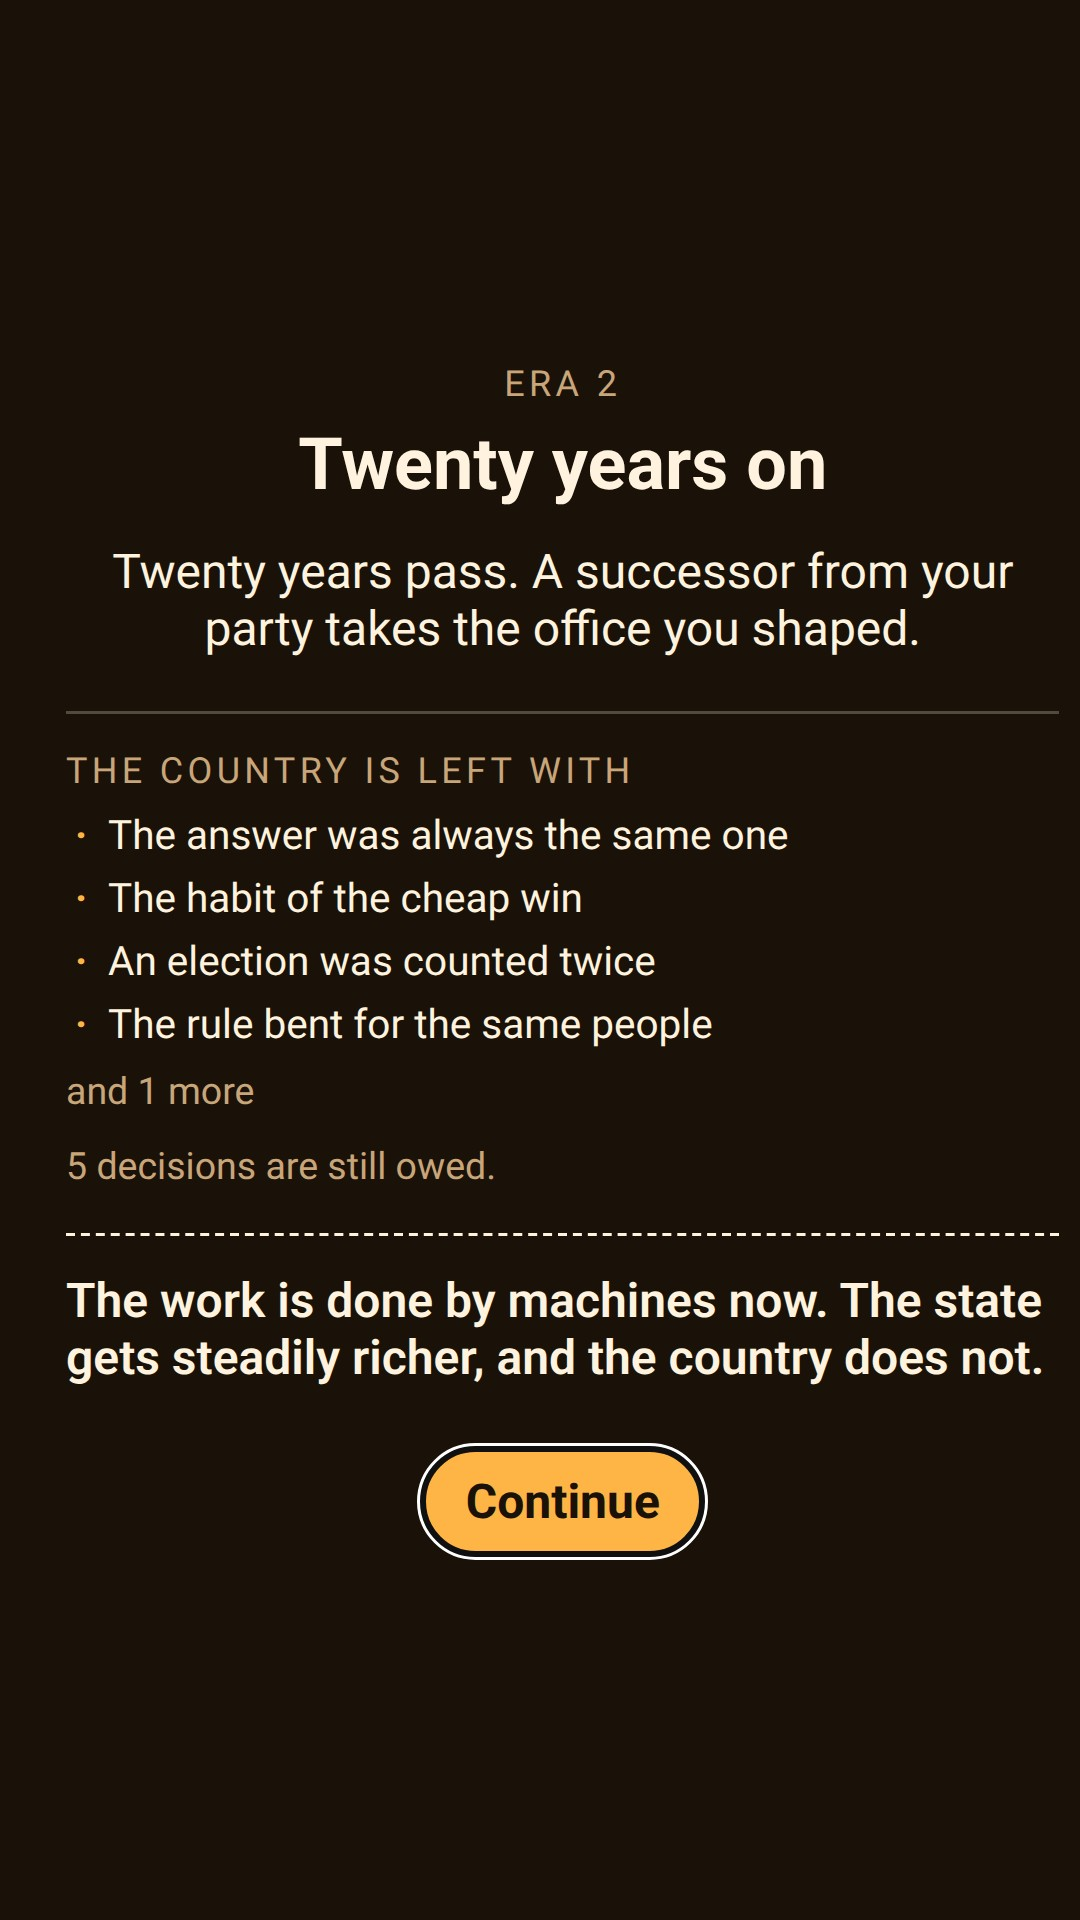
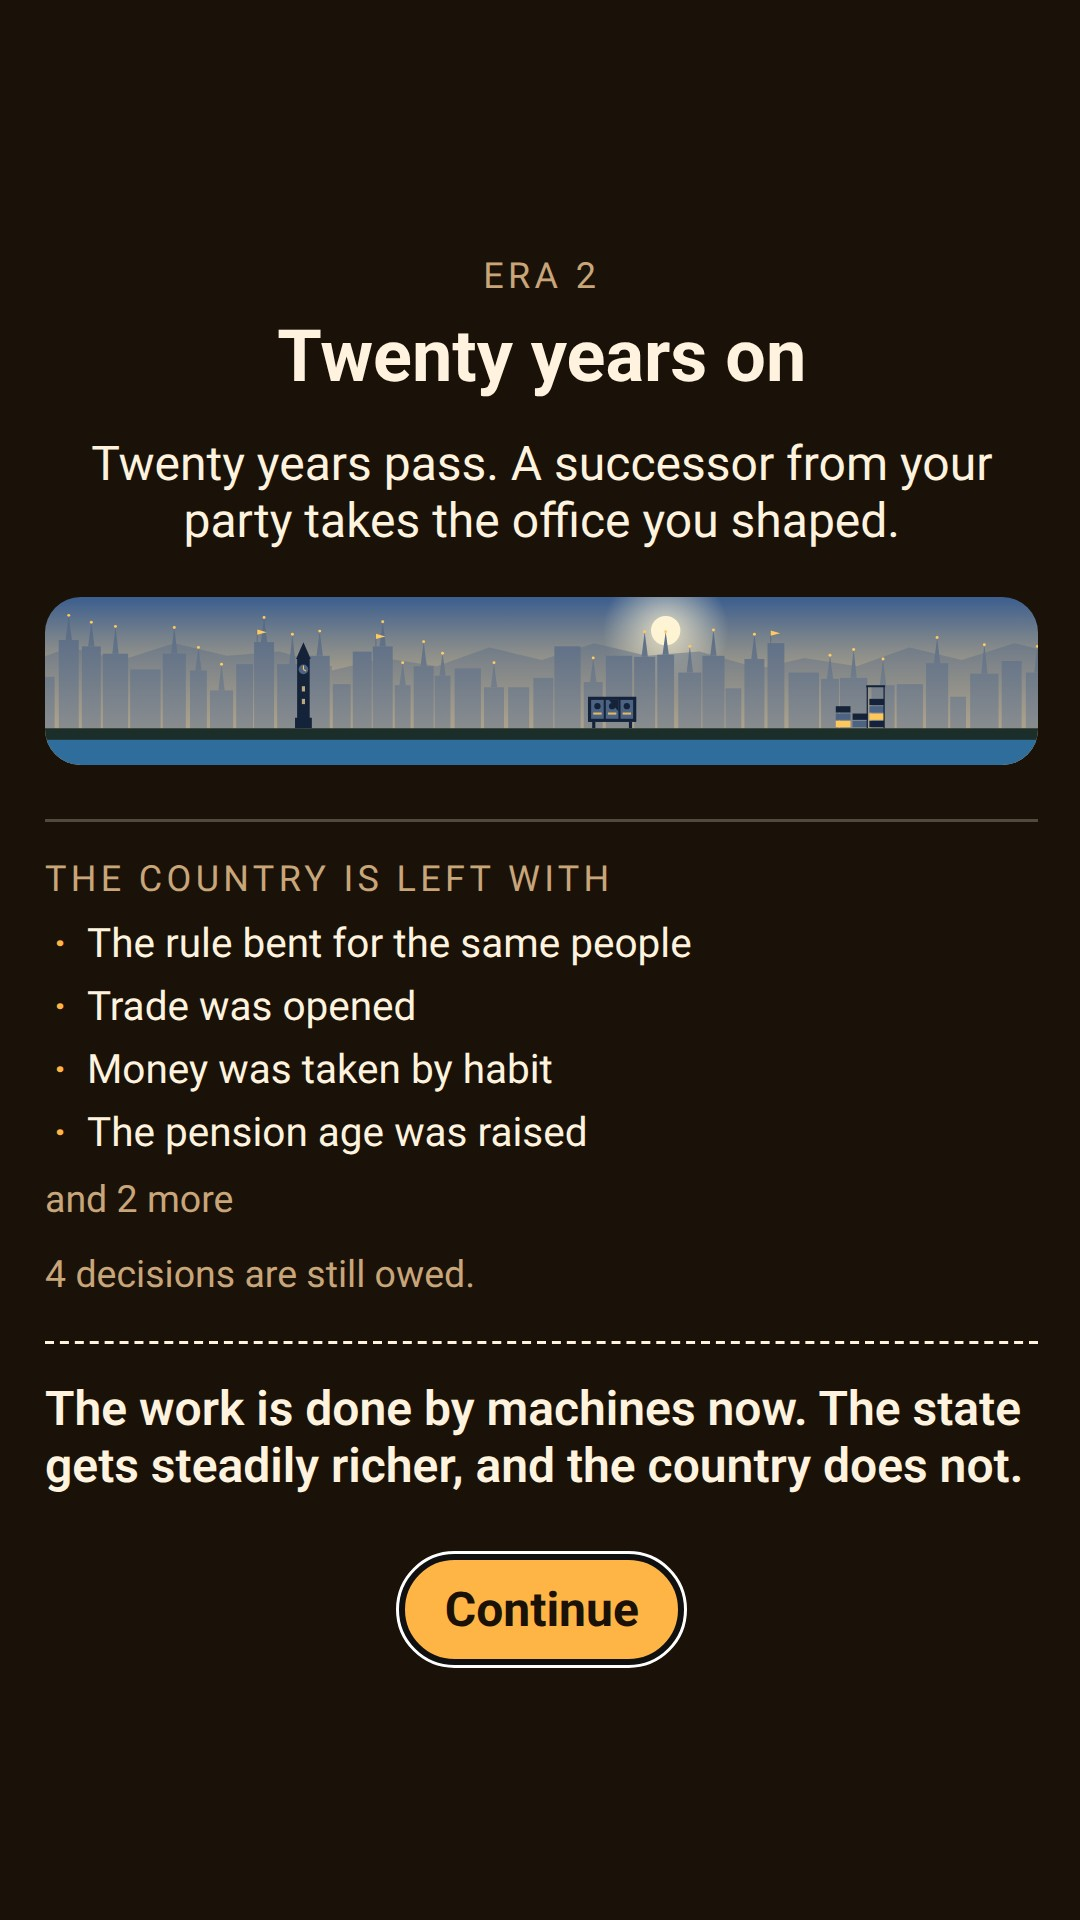
Store screenshots from v0.73.0, the rating search caught up, ROADMAP current
- The eight store screenshots are made again from v0.73.0. They were stale
  since v0.72.0: the era's change (04) draws the country now, and the menu
  (08) offers taking over the last run's country. STORE.md says which
  version they were made from.
- The listing said 80 ways for a rule to end; a run can collect 77. The
  other three close a first term, and the codex leaves them out.
- The content-rating notes were searched over the 1,577 cards of v0.59.0.
  Every line written or reworded since (967, from 233 new cards and the
  endings, histories, clues, promises and screen text added with them) is
  now searched too. Nothing new for the questionnaire's themes beyond a few
  mild additions, noted under each; a note on discrimination is added in
  case it is asked about.
- ROADMAP.md stopped at phase 7, and its list of what was left named things
  done since. It now opens with where the project stands, an index of the
  ten rounds of BACKLOG files, and what is left: a human playtest, and
  getting onto Play. The phase 7 section is kept, dated.

Claude-Session: https://claude.ai/code/session_018ViqGE1X6N6yJ5eQs81iMo

Changed region(s): [[0.0306, 0.125, 0.9778, 0.875]]

diff --git a/twa/STORE.md b/twa/STORE.md
@@ -12,8 +12,9 @@ that follow from it.
 | Short description | Swipe to govern. The easy choice now is the ruinous choice later. | 65 / 80 |
 
 **Full description** (2,613 / 4,000 characters). Every number in it was checked
-against the content when written: 1,810 cards, 44 stories and 16 questions, 30 advisors, 80
-endings, 675 history names (re-checked in v0.73.0). Re-check them if the content changes.
+against the content when written: 1,810 cards, 44 stories and 16 questions, 30 advisors, 77
+endings a run can collect (80 with the three that close a first term, which the codex leaves
+out), 675 history names (re-checked in v0.73.0). Re-check them if the content changes.
 
 ```
 You have taken office. Your advisors bring you one decision at a time: swipe left or right, and try to keep the country, your coalition and yourself in one piece for three eras.
@@ -28,7 +29,7 @@ HOW IT PLAYS
 • Elections you can win honestly, or not, and a record of which. A rival grows on every vote you steal, and once they are somebody they come for your cabinet, and then for the office by name.
 
 EVERY RUN IS ITS OWN
-• 80 ways for a rule to end, many of them yours to choose, and 675 names history can give it, from what you did and where it took the country.
+• 77 ways for a rule to end, many of them yours to choose, and 675 names history can give it, from what you did and where it took the country.
 • The country stands under the card as you build it: the seawall going up, the warships leaving. At the end, a picture of the world you left: spires and a ring in the sky, or tanks in the square and a drained bay.
 • Two parties to lead, the Commons and the Ledger, each with a coalition of its own.
 • Promises you make at the start, one or two of nine, each at a price, and each kept or broken on its own.
@@ -50,7 +51,8 @@ game, strategy, choices matter.
 ## Graphics
 
 `npm run build && npm run store:assets` makes all of these from the built game into
-`twa/store/`, in about ten seconds. Run it again whenever the screens change.
+`twa/store/`, in about ten seconds. Run it again whenever the screens change. The ones here
+were made from v0.73.0.
 
 | File | Size | What it shows |
 |---|---|---|
@@ -59,11 +61,11 @@ game, strategy, choices matter.
 | `01-card.jpg` | 1080×1920, JPEG | A card, in the neutral look |
 | `02-decay.jpg` | 1080×1920 | The same card in deep Decay: the screen has become a livestream |
 | `03-ascent.jpg` | 1080×1920 | The Ledger in deep Ascent |
-| `04-twenty-years-on.jpg` | 1080×1920 | An era boundary: what the country was left with, and what is still owed |
+| `04-twenty-years-on.jpg` | 1080×1920 | An era boundary: the country the reign hands on, what it was left with, and what is still owed |
 | `05-end-ascent.jpg` | 1080×1920 | The end of a run that went up: the world left behind, and its name |
 | `06-end-decay.jpg` | 1080×1920 | The end of a run that went down |
 | `07-codex.jpg` | 1080×1920 | The codex of a profile thirty runs in |
-| `08-menu.jpg` | 1080×1920 | The start of a run: a side, a setup, a promise |
+| `08-menu.jpg` | 1080×1920 | The start of a run: a side, a setup, and a fresh start or the last run's country |
 
 The screenshots are a 360×640 phone at three device pixels per CSS pixel, in Roboto, the
 font Android draws the game in. It is the copy the browser audits measure in
@@ -125,8 +127,10 @@ a run ends (`navigator.storage.persist()`), which sends nothing anywhere.
 
 ## Content rating questionnaire (IARC)
 
-These are notes to answer from, not answers. The 1,577 cards were searched for each theme the
-questionnaire asks about:
+These are notes to answer from, not answers. Everything the game can show was searched for each
+theme the questionnaire asks about: the 1,577 cards of v0.59.0 first, then, in v0.73.0, the 967
+lines written or reworded since. Those are 233 new cards, and the endings, histories, codex clues,
+promises and screen text added with them.
 
 - **Violence:** reported, not shown. Deaths are told in text ("forty thousand people
   died"), and there are riots, a coup, purges and a general "unleashed". Later cards add water
@@ -147,9 +151,13 @@ questionnaire asks about:
   die, an earthquake that flattens three schools, a foreign agent in the leader's office, a
   flood the valley is moved out of, and an army paid in bread that takes the bakeries, told
   the same way. The pictures are flat silhouettes (tanks, a searchlight), with no blood and no
-  injury.
-- **Language:** no profanity found.
-- **Sexual content:** none found.
+  injury. What was written since v0.59.0 adds almost none: police at a rally the organisers
+  expect to be "lively", a promise to jail a rival's ministers, soldiers sent into the streets
+  who do not all come back, floods, and a plague stockpile that expires unopened. The pictures
+  of v0.72.0 add police vans under a searchlight, and a fence with a bus of the deported, as
+  silhouettes.
+- **Language:** no profanity found, including in the lines written since v0.59.0.
+- **Sexual content:** none found, including in the lines written since v0.59.0.
 - **Drugs, alcohol, tobacco:** medicine, several times: drug pricing, a drug made in orbit,
   a drug that adds ten years, antibiotics that stop working, a flu vaccine in short supply,
   and a treatment that keeps one official alive for centuries. One tobacco mention: cigarettes
@@ -163,19 +171,31 @@ questionnaire asks about:
   playgrounds. No drug is named and no one is shown or described taking one. The cards that
   follow each answer later in a run (v0.54.0) add more of the same kind: the drug squads
   turned into a dynasty that sells what it seized, and legal drug firms sponsoring the
-  schools. The questionnaire asks about references to illegal drugs; answer it from this.
+  schools. The questionnaire asks about references to illegal drugs; answer it from this. Since
+  v0.59.0 the only addition is a codex clue for the legalising road: "Dealers given licences,
+  and then the ports."
 - **Gambling:** a national lottery appears as policy satire (its surplus, an evening draw,
   its results read out on a loyalty broadcast), and a casino asks for a licence. Since v0.56.0
   a party lottery's treasurer keeps winning it, and bookmakers go untaxed on a state race day.
   Since v0.59.0 a story has the national lottery rigged, its jackpot drawn before the tickets
-  went on sale. There is no simulated gambling and nothing to buy.
+  went on sale. A card of v0.62.0 proposes choosing people by lottery, a draw with no stakes.
+  There is no simulated gambling and nothing to buy.
 - **User interaction:** none. The chat in the Decay look is scripted decoration.
 - **Religion** is not a questionnaire theme, but in case a reviewer asks: a church appears
   as a landowner, a lobby and a school provider (tax exemptions, congregations turned out for
   a manifesto, a blasphemy law a town wants enforced, commandments for courtrooms). The long
   reign adds a religion that worships the power grid, a party turned church, and a cult of the
-  room where votes were once counted. The jokes are at institutions and the politicians
-  courting them, not at belief.
+  room where votes were once counted. Since v0.65.0 bishops offer to preach for a party in
+  return for the office that licenses bishops, and to mention a candidate from the pulpit for a
+  word about the charity tax rules; since v0.73.0 a rival learns the responses in the front pew.
+  The jokes are at institutions and the politicians courting them, not at belief.
+- **Discrimination,** in case the questionnaire asks (PEGI, one of the systems it rates for, has
+  a descriptor for it). It appears as something a government is tempted to do, never as the
+  game's view. Since v0.1.0 a spin chief at an election has found a minority to blame for the
+  numbers; since v0.73.0 the rival's own vote offers the same, and the rival claims a foreign
+  power pays for your reforms. A card of v0.62.0 has a campaign against a "foreign dance" fill
+  the news while a bill passes unread, and the deportation question is under Violence above.
+  No group is named, real or invented.
 - **Politics:** throughout, and all fictional. The country, the parties (the Commons and the
   Ledger) and every person are invented. Since v0.52.0 some cards name real policies plainly:
   going to war for an ally, deporting everyone without papers, the top tax rate, universal
@@ -184,8 +204,10 @@ questionnaire asks about:
   misinformation, adding seats to the highest court, and bailing out banks. Since v0.54.0
   each answer comes back in the eras after it, whichever party gave it. Each is asked of
   both parties, and the game does not score the answer, only
-  how it is carried out. No real country, party, person, faith or slogan appears; a test
-  (`tests/guardrails.test.ts`) searches everything the game can show for them.
+  how it is carried out. Since v0.65.0 a run can lose the office and lead the opposition, and
+  since v0.73.0 a rival can stand against it by name; the rival is as invented as the rest. No
+  real country, party, person, faith or slogan appears; a test (`tests/guardrails.test.ts`)
+  searches everything the game can show for them.
 
 ## Yours to decide
 

diff --git a/ROADMAP.md b/ROADMAP.md
@@ -12,6 +12,55 @@ Phases from TRANSFER.md section 11. Each phase ends with passing tests and an up
 | 6 | Meta: codex, objectives, unlocks, daily seed, save migration | Done |
 | 7 | PWA, then TWA | **Done for the web half** (this commit); Play packaging needs a machine with the Android SDK |
 
+## Where the project stands now (v0.73.0)
+
+The seven phases above built the game. Since then the work has been planned in rounds, each in
+its own file: every item measured before it was built, and written up with what it did after.
+
+| Round | File | Phases |
+|---|---|---|
+| 1 | `BACKLOG.md` | ten numbered items |
+| 2 | `BACKLOG-2.md` | 8–17 |
+| 3 | `BACKLOG-3.md` | 18–27 |
+| 4 | `BACKLOG-4.md` | 28–29 |
+| 5 | `BACKLOG-5.md` | 30–39 |
+| 6 | `BACKLOG-6.md` | 40–44 |
+| 7 | `BACKLOG-7.md` | 45–48 |
+| 8 | `BACKLOG-8.md` | 49–51 |
+| 9 | `BACKLOG-9.md` | 52–54 |
+| 10 | `BACKLOG-10.md` | 55–65 |
+
+Every phase is done but one: BACKLOG-2's phase 17, getting the game onto Play, which waits on
+decisions only the owner can make.
+
+| | |
+|---|---|
+| Content | 1,810 cards; 76 arcs, which are 44 stories and 16 questions written for each party; 80 endings, 77 of which a run can collect; 30 advisors; 31 modifiers; 675 history names; three eras, and five in a long reign |
+| Tests | 833 unit tests and 56 browser tests |
+| Balance | every harness target passes: section 8's, the informed voter's (BACKLOG-9 phase 54) and the long reign's (BACKLOG-5 phase 39) |
+| Gates in CI | typecheck, unit tests, the strict content gate, and the browser audits |
+
+### What is left
+
+1. **A human playtest.** Still never done: every balance number in every round is from bots.
+   The recorder and its report beside the bots (BACKLOG-5 phase 31, taken further in BACKLOG-7
+   phase 46) are ready for it; the closed test is the way to get the runs.
+2. **Getting onto Play** (BACKLOG-2 phase 17): where `assetlinks.json` lives, the policy check,
+   whether the account needs a closed test first, then a signed build. The listing, the
+   graphics (made from v0.73.0), the Data safety answers and the content-rating notes are in
+   `twa/STORE.md`.
+
+The list this file ended on after phase 7, and what became of it:
+
+1. The human playtest: still open, above.
+2. The voice edit pass: BACKLOG-7 phase 47, and `npm run voice` since.
+3. The saint problem: BACKLOG-5 considered it and proposed no change. The saint bot takes the
+   more honest side whatever it costs, so it dies by design; the mixed bot plays the same line
+   but steps in when a meter nears its edge, and finishes 97% of runs.
+4. Play packaging: still open, above.
+5. Post-MVP scope: eras 4 and 5 are the long reign (BACKLOG-5 phase 39), and the content is past
+   a thousand cards, forty arcs and fifty endings.
+
 ## Phase 1: what shipped
 
 - `src/engine/`: types (section 6), mulberry32 RNG stored in state, `newRun`, `draw` with the
@@ -657,7 +706,10 @@ API level. **Do that before building the package, not after.** The one thing alr
 game's favour is structural: section 3's rule that everything is fictional was followed
 throughout, so there are no real parties, people or countries anywhere in the content.
 
-## Where the project stands
+## Where the project stood after phase 7
+
+This is the state at phase 7, kept as it was written. The current state is at the top of this
+file.
 
 All seven phases are built. The game is playable at
 https://rcjlabs.github.io/Rule-or-Drool/, installs to a home screen, and runs offline.

diff --git a/BACKLOG-10.md b/BACKLOG-10.md
@@ -1284,11 +1284,13 @@ where it fits least.
   people read into the new drawings, is for the closed test. The drawings were judged by eye.
 - **The store screenshots are stale.** They are taken at 360×640, where the play screen has no
   strip, but the era's change (`04`) draws the country now. `npm run build && npm run
-  store:assets` makes new ones. The listing's description mentions the strip.
+  store:assets` makes new ones. The listing's description mentions the strip. (They were made
+  again from v0.73.0, after phase 65.)
 - **The listing's numbers had gone stale,** its counts since phase 48 and its length since phase 43.
   They are 1,770 cards, 80 endings, 675 history names and 2,486 characters now. The content-rating
   notes still say 1,577 cards were searched for the questionnaire's themes, and the 193 written
-  since have not been; that search is yours before the questionnaire.
+  since have not been; that search is yours before the questionnaire. (It was done after phase
+  65, over every line written since v0.59.0; STORE.md has the notes.)
 
 **What was built.**
 - `world.ts`:
@@ -1426,6 +1428,8 @@ Every harness target passes.
 - **The content-rating search is further behind.** 233 cards have been written since the 1,577
   that were searched. Among the new ones: a press secretary who has found a minority to blame
   (as `e_scapegoat` already had), and a rival's claim that foreign money pays for your reforms.
+  (Searched after this phase: nothing the questionnaire asks about beyond these; STORE.md has
+  the notes.)
 
 **What was built.**
 - Engine:

diff --git a/README.md b/README.md
@@ -4,7 +4,8 @@ A Reigns-style card swiper where the easy choice now is the ruinous choice later
 fictional country; every card is a two-way decision that moves four survival meters and a
 hidden trajectory. Over a run the country drifts toward Decay or Ascent.
 
-The design spec is `TRANSFER.md`. Progress and decisions live in `ROADMAP.md`. Read both
+The design spec is `TRANSFER.md`. Progress and decisions live in `ROADMAP.md`, which says
+where the project stands and indexes the rounds of work since in `BACKLOG*.md`. Read both
 before changing anything.
 
 ## Status
